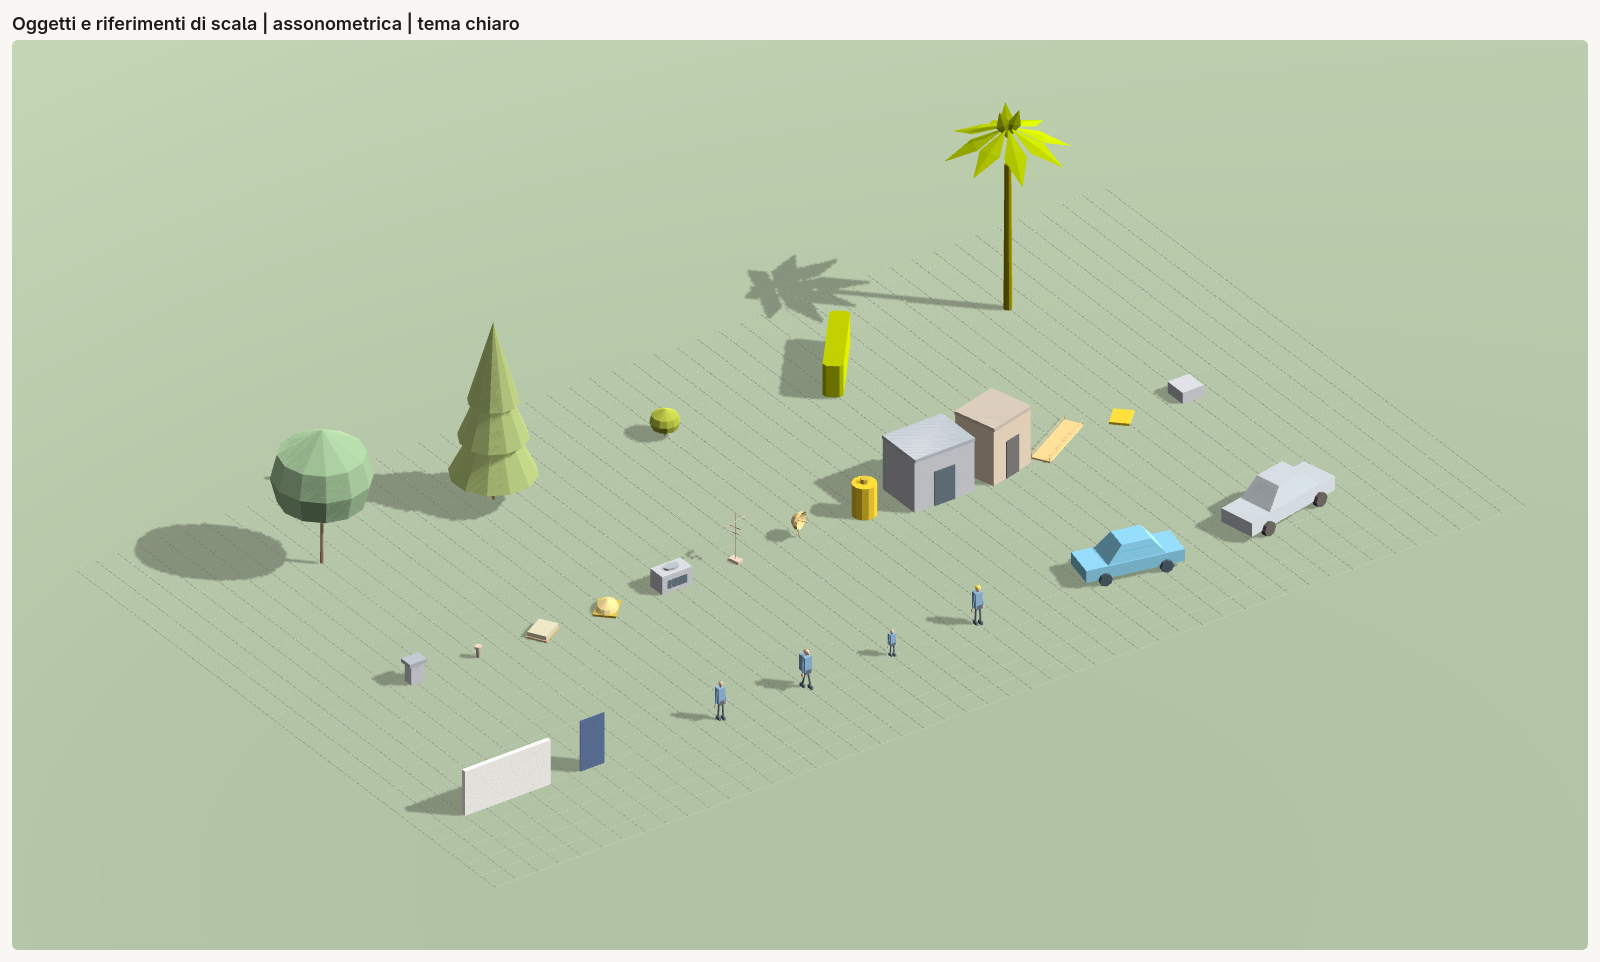
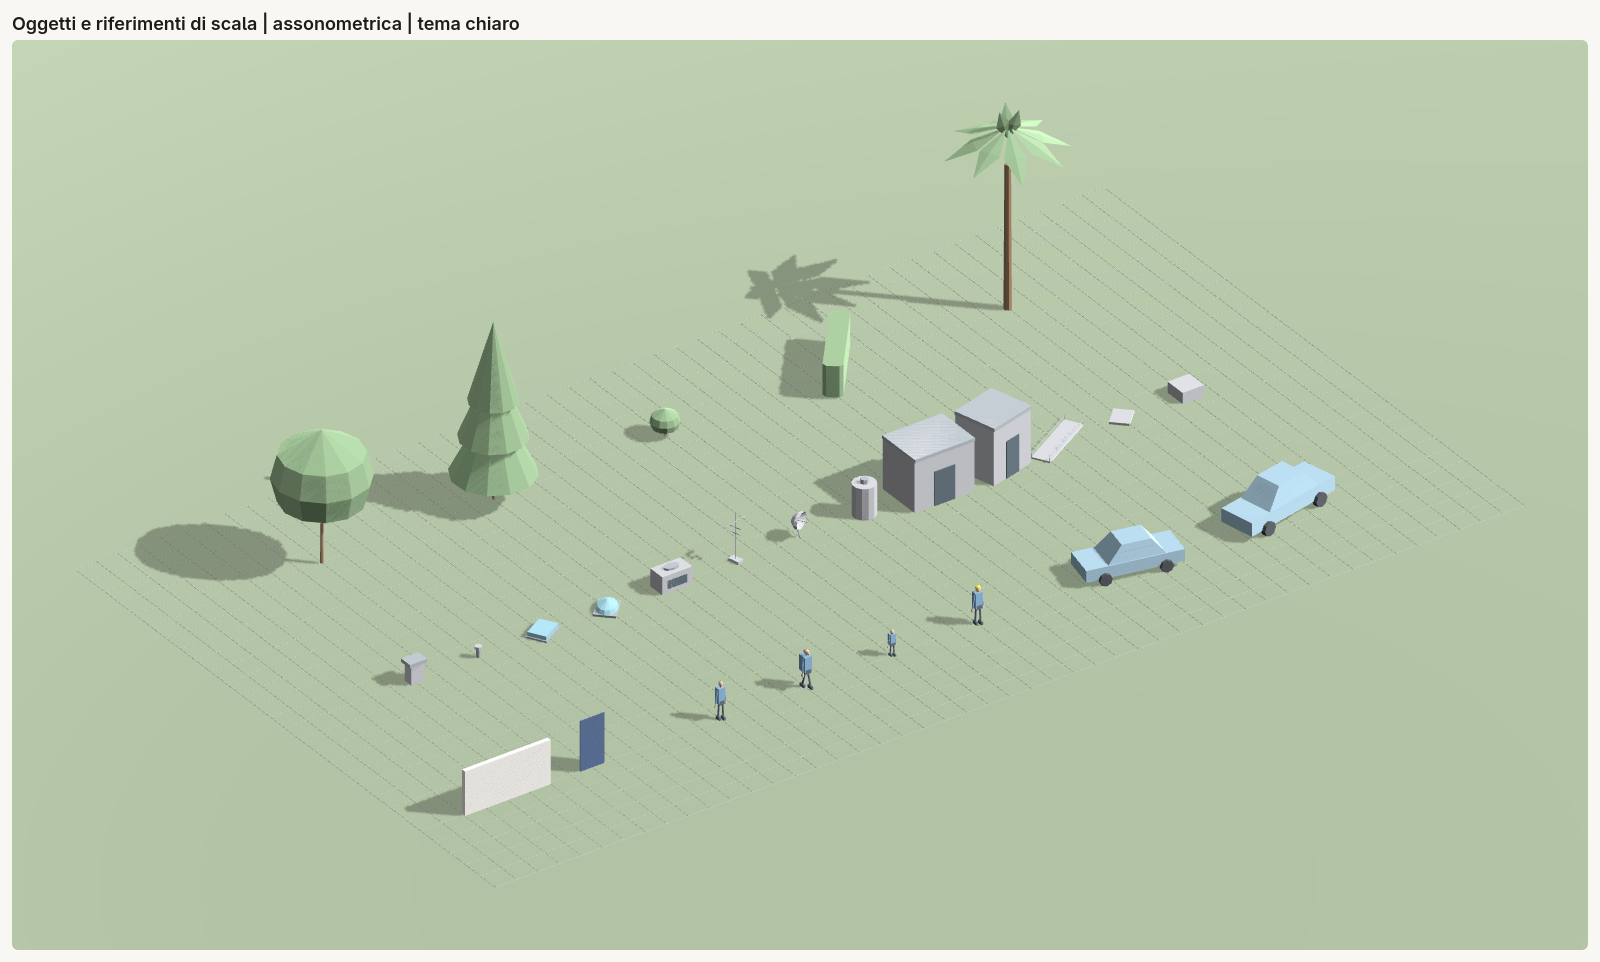
Preserve prop palettes during rotation (oggetti 3D, seguito 1)

diff --git a/tests/nucleo/test_props.py b/tests/nucleo/test_props.py
@@ -269,6 +269,27 @@ class Cars(MeshChecks):
                 props.car("compact", **dimensions)
 
 
+class Palettes(unittest.TestCase):
+    def test_every_object_only_uses_colours_declared_by_the_light_or_dark_palette(self):
+        dark = {
+            **props.DEFAULT_COLOURS,
+            "tree": (0.38, 0.54, 0.34),
+            "obstacle": (0.62, 0.63, 0.66),
+            "metal": (0.50, 0.54, 0.58),
+            "glass": (0.42, 0.58, 0.66),
+        }
+        factories = ((props.TREE_KINDS, props.tree), (props.OBSTACLE_KINDS, props.obstacle),
+                     (props.PERSON_KINDS, props.person), (props.CAR_KINDS, props.car))
+        for theme, palette in (("light", props.DEFAULT_COLOURS), ("dark", dark)):
+            for kinds, factory in factories:
+                for kind in kinds:
+                    with self.subTest(theme=theme, kind=kind):
+                        colours = np.unique(factory(kind, rotation=37.0, colours=palette)[2], axis=0)
+                        for colour in colours:
+                            self.assertTrue(any(np.allclose(colour, declared, rtol=0, atol=1e-7)
+                                                for declared in palette.values()), colour)
+
+
 class GalleryScenes(unittest.TestCase):
     @staticmethod
     def gallery():

diff --git a/src/meridiana/props.py b/src/meridiana/props.py
@@ -204,7 +204,7 @@ def _rotate_qt(shape, degrees):
     angle = math.radians(degrees)
     c, s = math.cos(angle), math.sin(angle)
     matrix = np.array(((c, 0.0, s), (0.0, 1.0, 0.0), (-s, 0.0, c)))
-    return tuple(np.asarray(array, dtype=np.float32) @ matrix.T for array in shape)
+    return tuple(np.asarray(array, dtype=np.float32) @ matrix.T for array in shape[:2]) + (shape[2],)
 
 
 def _rotate_model(points, degrees):

diff --git a/docs/revisioni/kimi-oggetti-3d-esito.md b/docs/revisioni/kimi-oggetti-3d-esito.md
@@ -56,7 +56,7 @@ I valori sono quelli delle chiamate predefinite e non cambiano con le misure. I 
 
 ## Prove
 
-[V] `tests/nucleo/test_props.py` contiene 23 prove. Per ogni tipo usa almeno due insiemi di misure e controlla:
+[V] `tests/nucleo/test_props.py` contiene 24 prove. Per ogni tipo usa almeno due insiemi di misure e controlla:
 
 - ingombro esterno uguale a quello richiesto, con tolleranza di 0,00002 m;
 - array `float32`, valori finiti, normali unitarie e concordi con l'orientamento dei triangoli;
@@ -64,13 +64,14 @@ I valori sono quelli delle chiamate predefinite e non cambiano con le misure. I 
 - rispetto del budget, risultato identico a ogni chiamata, rotazione e colori personalizzati;
 - volumi d'ombra contenuti nell'ingombro decorativo;
 - misure non valide rifiutate;
+- appartenenza di ogni colore generato alla tavolozza dichiarata, in chiaro e in scuro, per tutti gli oggetti ruotati;
 - presenza degli oggetti nelle due scene e ordine corretto delle dodici catture.
 
 [V] Il comando mirato `python -m unittest nucleo.test_mesh nucleo.test_props` ha superato 47 prove, comprese quelle
 preesistenti delle mesh. Una generazione di 500 latifoglie ha prodotto 52.000 triangoli in 2,10 s durante la suite,
 circa 4,21 ms per albero, senza Qt.
 
-[V] La galleria è stata aperta solo con `tools/real_session.sh`. Ha prodotto dodici immagini a 1600 x 1000: due
+[V] La galleria è stata aperta solo con `tools/real_session.sh`. Ha prodotto dodici immagini a 1600 x 962: due
 scene, due temi e tre punti di vista. Le ho guardate tutte. Ho corretto l'ordine scena/tema nella coda, ravvicinato
 la galleria e spostato persone, palma e auto per evitare occlusioni nella scena realistica. Alla fine di ogni prova
 `findmnt /run/user/1000/doc` ha confermato che il montaggio del portale documenti era ancora presente.
@@ -137,3 +138,31 @@ di Qt. La ripetizione ha dato lo stesso esito: 481 prove verdi, poi segfault. È
 una prova fallita sugli oggetti; non ho cambiato codice estraneo per inseguirlo.
 
 [V] Ho riletto da solo tutto il diff e le prove, senza subagent. Non risultano difetti aperti nell'incarico.
+
+## Seguito 1: tavolozza delle mesh ruotate
+
+[V] La causa dei colori fuori tavolozza era in `_rotate_qt` di `props.py`: la matrice di rotazione veniva applicata a
+posizioni, normali e anche colori. Ogni angolo mescolava quindi i canali RGB e poteva produrre valori negativi. La
+galleria non passava colori sbagliati e i valori di `DEFAULT_COLOURS` erano già corretti.
+
+[V] Prima della correzione, `galleria-chiaro-assonometrica.png` mostrava la palma giallo acido, la siepe giallo-verde,
+il serbatoio ocra e la passerella gialla. Nella scena realistica la palma aveva lo stesso difetto. Dopo la correzione,
+le stesse fotografie mostrano tutta la vegetazione nel verde di `mesh.TREE`, gli ostacoli nei grigi di
+`mesh.OBSTACLE` e del metallo, i lucernari in azzurro-grigio e la passerella in grigio. Il casco dell'operaio resta
+giallo. Ho confrontato e guardato tutte le dodici immagini nuove, chiare e scure, nei tre punti di vista.
+
+[V] La nuova prova `Palettes.test_every_object_only_uses_colours_declared_by_the_light_or_dark_palette` genera tutti
+i 24 tipi con rotazione di 37 gradi, con la tavolozza chiara predefinita e con una tavolozza scura dichiarata. Prima
+falliva in tutti i 48 casi, con colori non dichiarati e anche componenti negative. Dopo la correzione passa. Il gruppo
+`nucleo.test_props` supera tutte le 24 prove e Ruff è pulito sui tre file Python nuovi.
+
+[V] Le dodici foto sono state rifatte con gli stessi nomi usando soltanto `tools/real_session.sh`. Al termine
+`findmnt /run/user/1000/doc` ha confermato che il montaggio del portale documenti era ancora presente. Non sono
+rimaste finestre o sessioni grafiche aperte.
+
+[V] Nella verifica finale del seguito, Ruff su `src`, `tests` e `tools` è pulito. I gruppi `nucleo`, `calcoli` e
+`formati` hanno superato rispettivamente 949, 272 e 87 prove. Il gruppo `widget` ha superato tutte le 481 prove,
+poi il processo è terminato con lo stesso segfault nello smaltimento di Qt già riscontrato e documentato sopra.
+Un primo tentativo del gruppo `finestra` è stato interrotto dal limite di 600 secondi senza aver riportato fallimenti.
+La ripetizione verbosa, senza quel limite, ha superato tutte le 183 prove in 909,6 secondi. Anche `msgfmt --check` è
+pulito; il suo artefatto `messages.mo` è stato eliminato.
